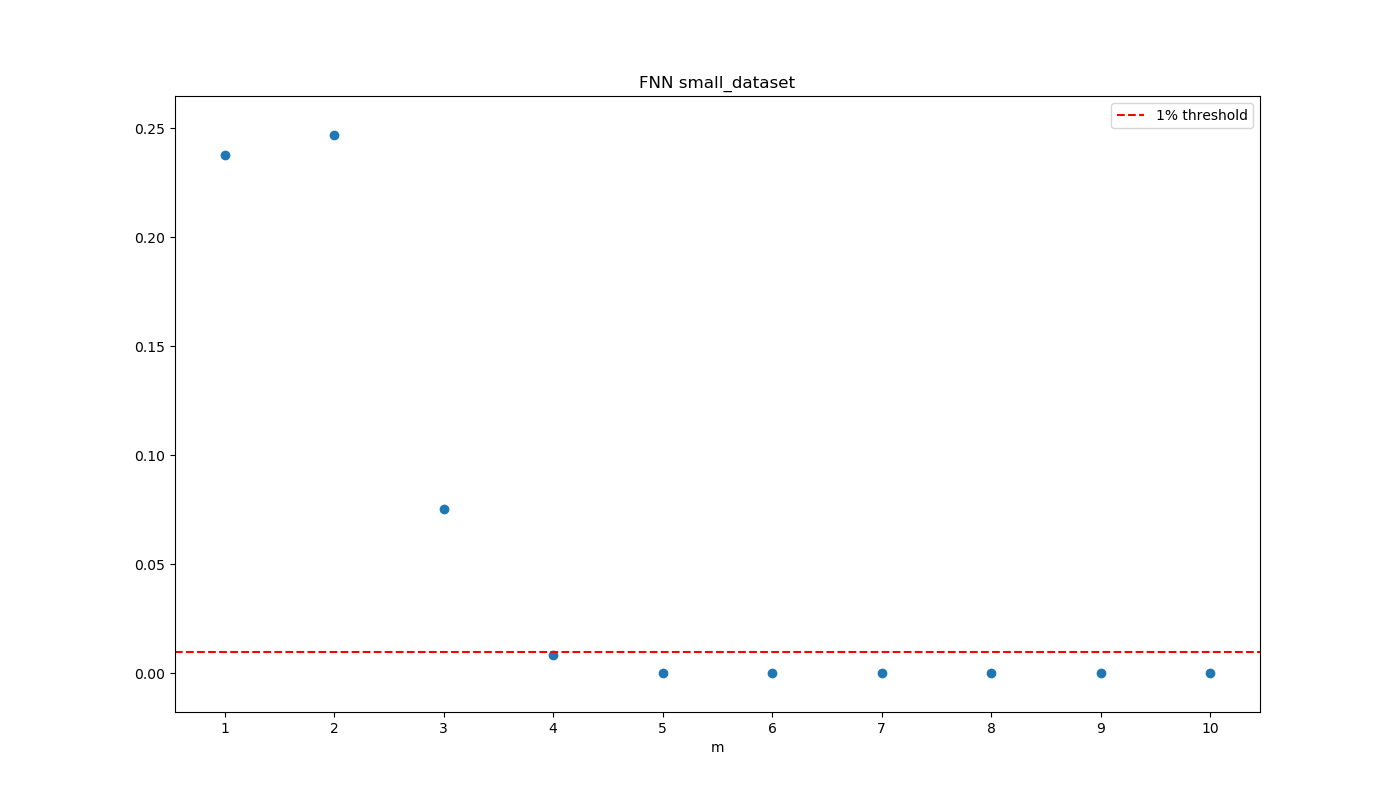
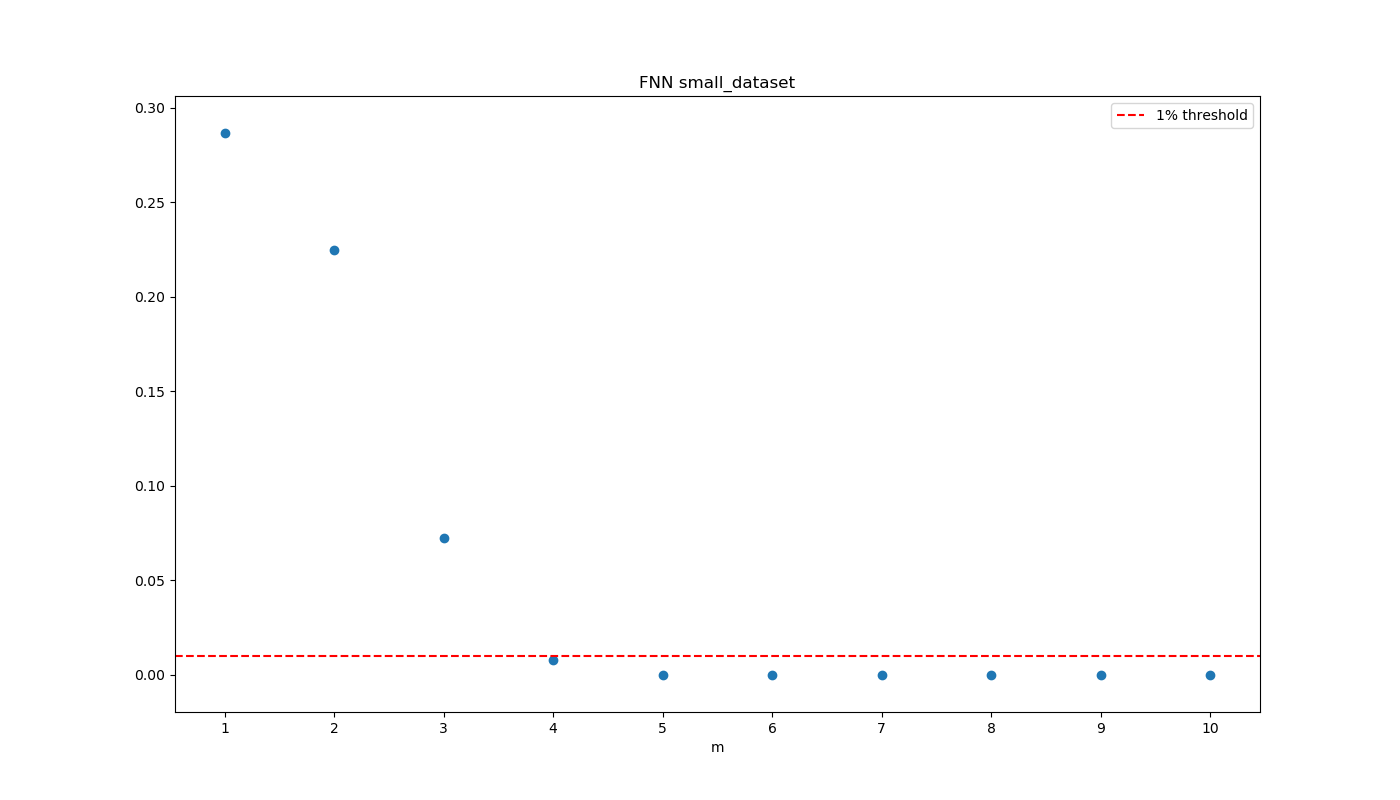
tau of small dataset = 1

diff --git a/Part2/part2.py b/Part2/part2.py
@@ -23,7 +23,7 @@ for name, dataset in data.items():
 # for name, dataset in data.items():
 #     plot_delayed_mutual_information(dataset, 20, f"{name}")
 
-tau = {"complete_dataset": 5, "small_dataset": 3}
+tau = {"complete_dataset": 5, "small_dataset": 1}
 
 # choice of embedding dimension m
 # maxnum = {"complete_dataset": 320, "small_dataset": 40}
